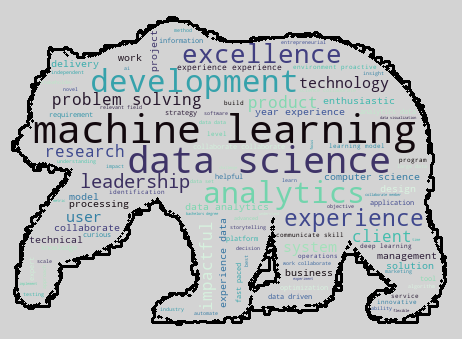
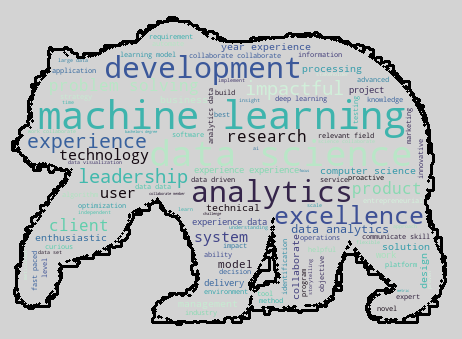
parsed overlookked stopwords down to softbank

Changed region(s): [[0.0303, 0.0885, 0.9394, 0.944], [0.7879, 0.8555, 0.9091, 0.944], [0.3636, 0.885, 0.3939, 0.9145]]

diff --git a/nlp_main.py b/nlp_main.py
@@ -1367,7 +1367,17 @@ def clean_terms_for_nlp(series_of_interest):
                                             'combination', 'handson', 'high', 'higher', '35', 'military', 'militaryveteran',
                                             'molecular', 'prior', 'track', 'solid', 'track', 'asaservice', 'ad', 
                                             'transform', 'natural', 'next', 'ppas', 'maker', 'sparkcognition', 'flow',
-                                            'fast', 'faster','high', 'highly', 'oriented']))) 
+                                            'fast', 'faster','high', 'highly', 'oriented', 'geli', 'sephora', 'serco', 'faire',
+                                            'mirati', 'upwork', 'jpl', 'totus', 'quantcast', 'fermentation', 'irap', 'rady',
+                                            'bolt', 'dexcom', 'zest', 'terawatt', 'barbara', 'pinner', 'usra', 'ritual',
+                                            'jgi', 'moloco', 'airtable', 'moonshot', 'ericsson', 'blackberry', 'tri', 
+                                            'sarscov2', 'tinder', 'vida', 'sunnyvale', 'nauto', 'mst', 'shortform', 'bambee',
+                                            'thirdlove', 'bric', 'nitro', 'jakarta', 'metabolomics', 'kp', 'atomwise',
+                                            '1823', 'goodrx', 'grail', 'franciscos', 'freenome', 'netskope', 'medimpact',
+                                            'nvidias', 'viant', 'bsba', 'descript', 'jerry', 'openx', 'bouqs', 'setsail',
+                                            'cdph', 'ox', 'iron', 'apd', 'multiplechoice', 'driscolls', 'deferral',
+                                            'updater', 'mlds', 'smoke', 'topps', 'ax', 'softbank', 'remodeling']))) 
+ 
     
     # create stop_words object and toggle on/off additional stop words
     # stop_words = nltk.corpus.stopwords.words('english') + additional_stopwords + ds_cred_terms + ds_prof_skill_terms + ds_soft_skill_terms + ds_tech_skill_terms
@@ -1391,6 +1401,7 @@ def clean_terms_for_nlp(series_of_interest):
                   'hoc': 'adhoc',
                   'impromptu': 'adhoc',
                   'advance': 'advanced',
+                  'aggregate': 'aggregation',
                   'aggregating': 'aggregation',
                   'aggregated': 'aggregation',
                   'agilescrum': 'agile scrum',
@@ -1441,6 +1452,7 @@ def clean_terms_for_nlp(series_of_interest):
                   'bsc': 'bachelors',
                   'bsms': 'bachelors masters',
                   'bsmsphd': 'bachelors masters phd',
+                  'undergraduate': 'bachelors',
                   'master': 'masters',
                   'bayesian': 'bayes',
                   'bestpractices': 'best practice',
@@ -1452,6 +1464,7 @@ def clean_terms_for_nlp(series_of_interest):
                   'bigquery': 'big query',
                   'biology': 'bioscience',
                   'biological': 'bioscience',
+                  'epidemiology': 'bioscience',
                   'neuroscience': 'bioscience',
                   'biostatisticians': 'biostatistics',
                   'biotechnology': 'biotech',
@@ -1460,6 +1473,7 @@ def clean_terms_for_nlp(series_of_interest):
                   'caffe2': 'caffe',
                   'categorization': 'categorize',
                   'licensecertification': 'certification',
+                  'certified': 'certification',
                   'challenging': 'challenge',
                   'chatbots': 'chatbot',
                   'classifier': 'classification',
@@ -1684,11 +1698,13 @@ def clean_terms_for_nlp(series_of_interest):
                   'explainability': 'explain',
                   'explanation': 'explain',
                   'exploration': 'exploratory',
+                  'everchanging': 'fast-paced',
                   'fastmoving': 'fast-paced',
                   'fastpaced': 'fast-paced',
                   'quickly': 'fast-paced',
                   'quicker': 'fast-paced',
                   'quick': 'fast-paced',
+                  'pace': 'fast-paced',
                   'paced': 'fast-paced',
                   'speed': 'fast-paced',
                   'highspeed': 'fast-paced',
@@ -1728,6 +1744,7 @@ def clean_terms_for_nlp(series_of_interest):
                   'gitlab': 'git',
                   'glms': 'glm',
                   'glmregression': 'glm regression',
+                  'cpugpu': 'gpu',
                   'gpus': 'gpu',
                   'graduatelevel': 'graduate',
                   'graphbased': 'graph',
@@ -1775,6 +1792,7 @@ def clean_terms_for_nlp(series_of_interest):
                   'innovatively': 'innovative',
                   'creativity': 'innovative',
                   'creative': 'innovative',
+                  'creatively': 'innovative',
                   'innovatives': 'innovative',
                   'innovates': 'innovative',
                   'innovation': 'innovative',
@@ -1842,6 +1860,7 @@ def clean_terms_for_nlp(series_of_interest):
                   'managing': 'management',
                   'managed': 'management',
                   'map': 'mapping',
+                  'msc': 'masters',
                   'msma': 'masters',
                   'msphd': 'masters phd',
                   'mathematician': 'mathematics',
@@ -1859,6 +1878,7 @@ def clean_terms_for_nlp(series_of_interest):
                   'medidata': 'metadata',
                   'methodology': 'method',
                   'methodological': 'method',
+                  'rigor': 'meticulous',
                   'rigorous': 'meticulous',
                   'attention': 'meticulous',
                   'attentiontodetail': 'meticulous',
@@ -2108,6 +2128,7 @@ def clean_terms_for_nlp(series_of_interest):
                   'troubleshoots': 'troubleshoot',
                   'troubleshooting': 'troubleshoot',
                   'understands': 'understand',
+                  'understood': 'understand',
                   'unixshell': 'unix shell',
                   'use': 'user',
                   'oral': 'verbal',
@@ -2199,6 +2220,8 @@ def nlp_skill_lists(additional_stopwords):
                      'field',
                      'ged',
                      'genomics',
+                     'geophysical',
+                     'geospatial',
                      'gpa',
                      'graduate',
                      'industry',
@@ -3192,6 +3215,7 @@ def nlp_count_n_grams(terms_for_nlp, n_gram_count, n_gram_range_start, n_gram_ra
     
     # count n grams in the field of interest, bounding the count according to n_gram_range_start and n_gram_range_stop
     n_grams = (pd.Series(nltk.ngrams(terms_for_nlp, n_gram_count)).value_counts())[n_gram_range_start:n_gram_range_stop]
+    # n_grams = [x[2:-3] for x in list(n_grams.index)]
     print(f'List of ngrams for new data parsing:\n{n_grams}\n')
     
     # visualize n_grams
